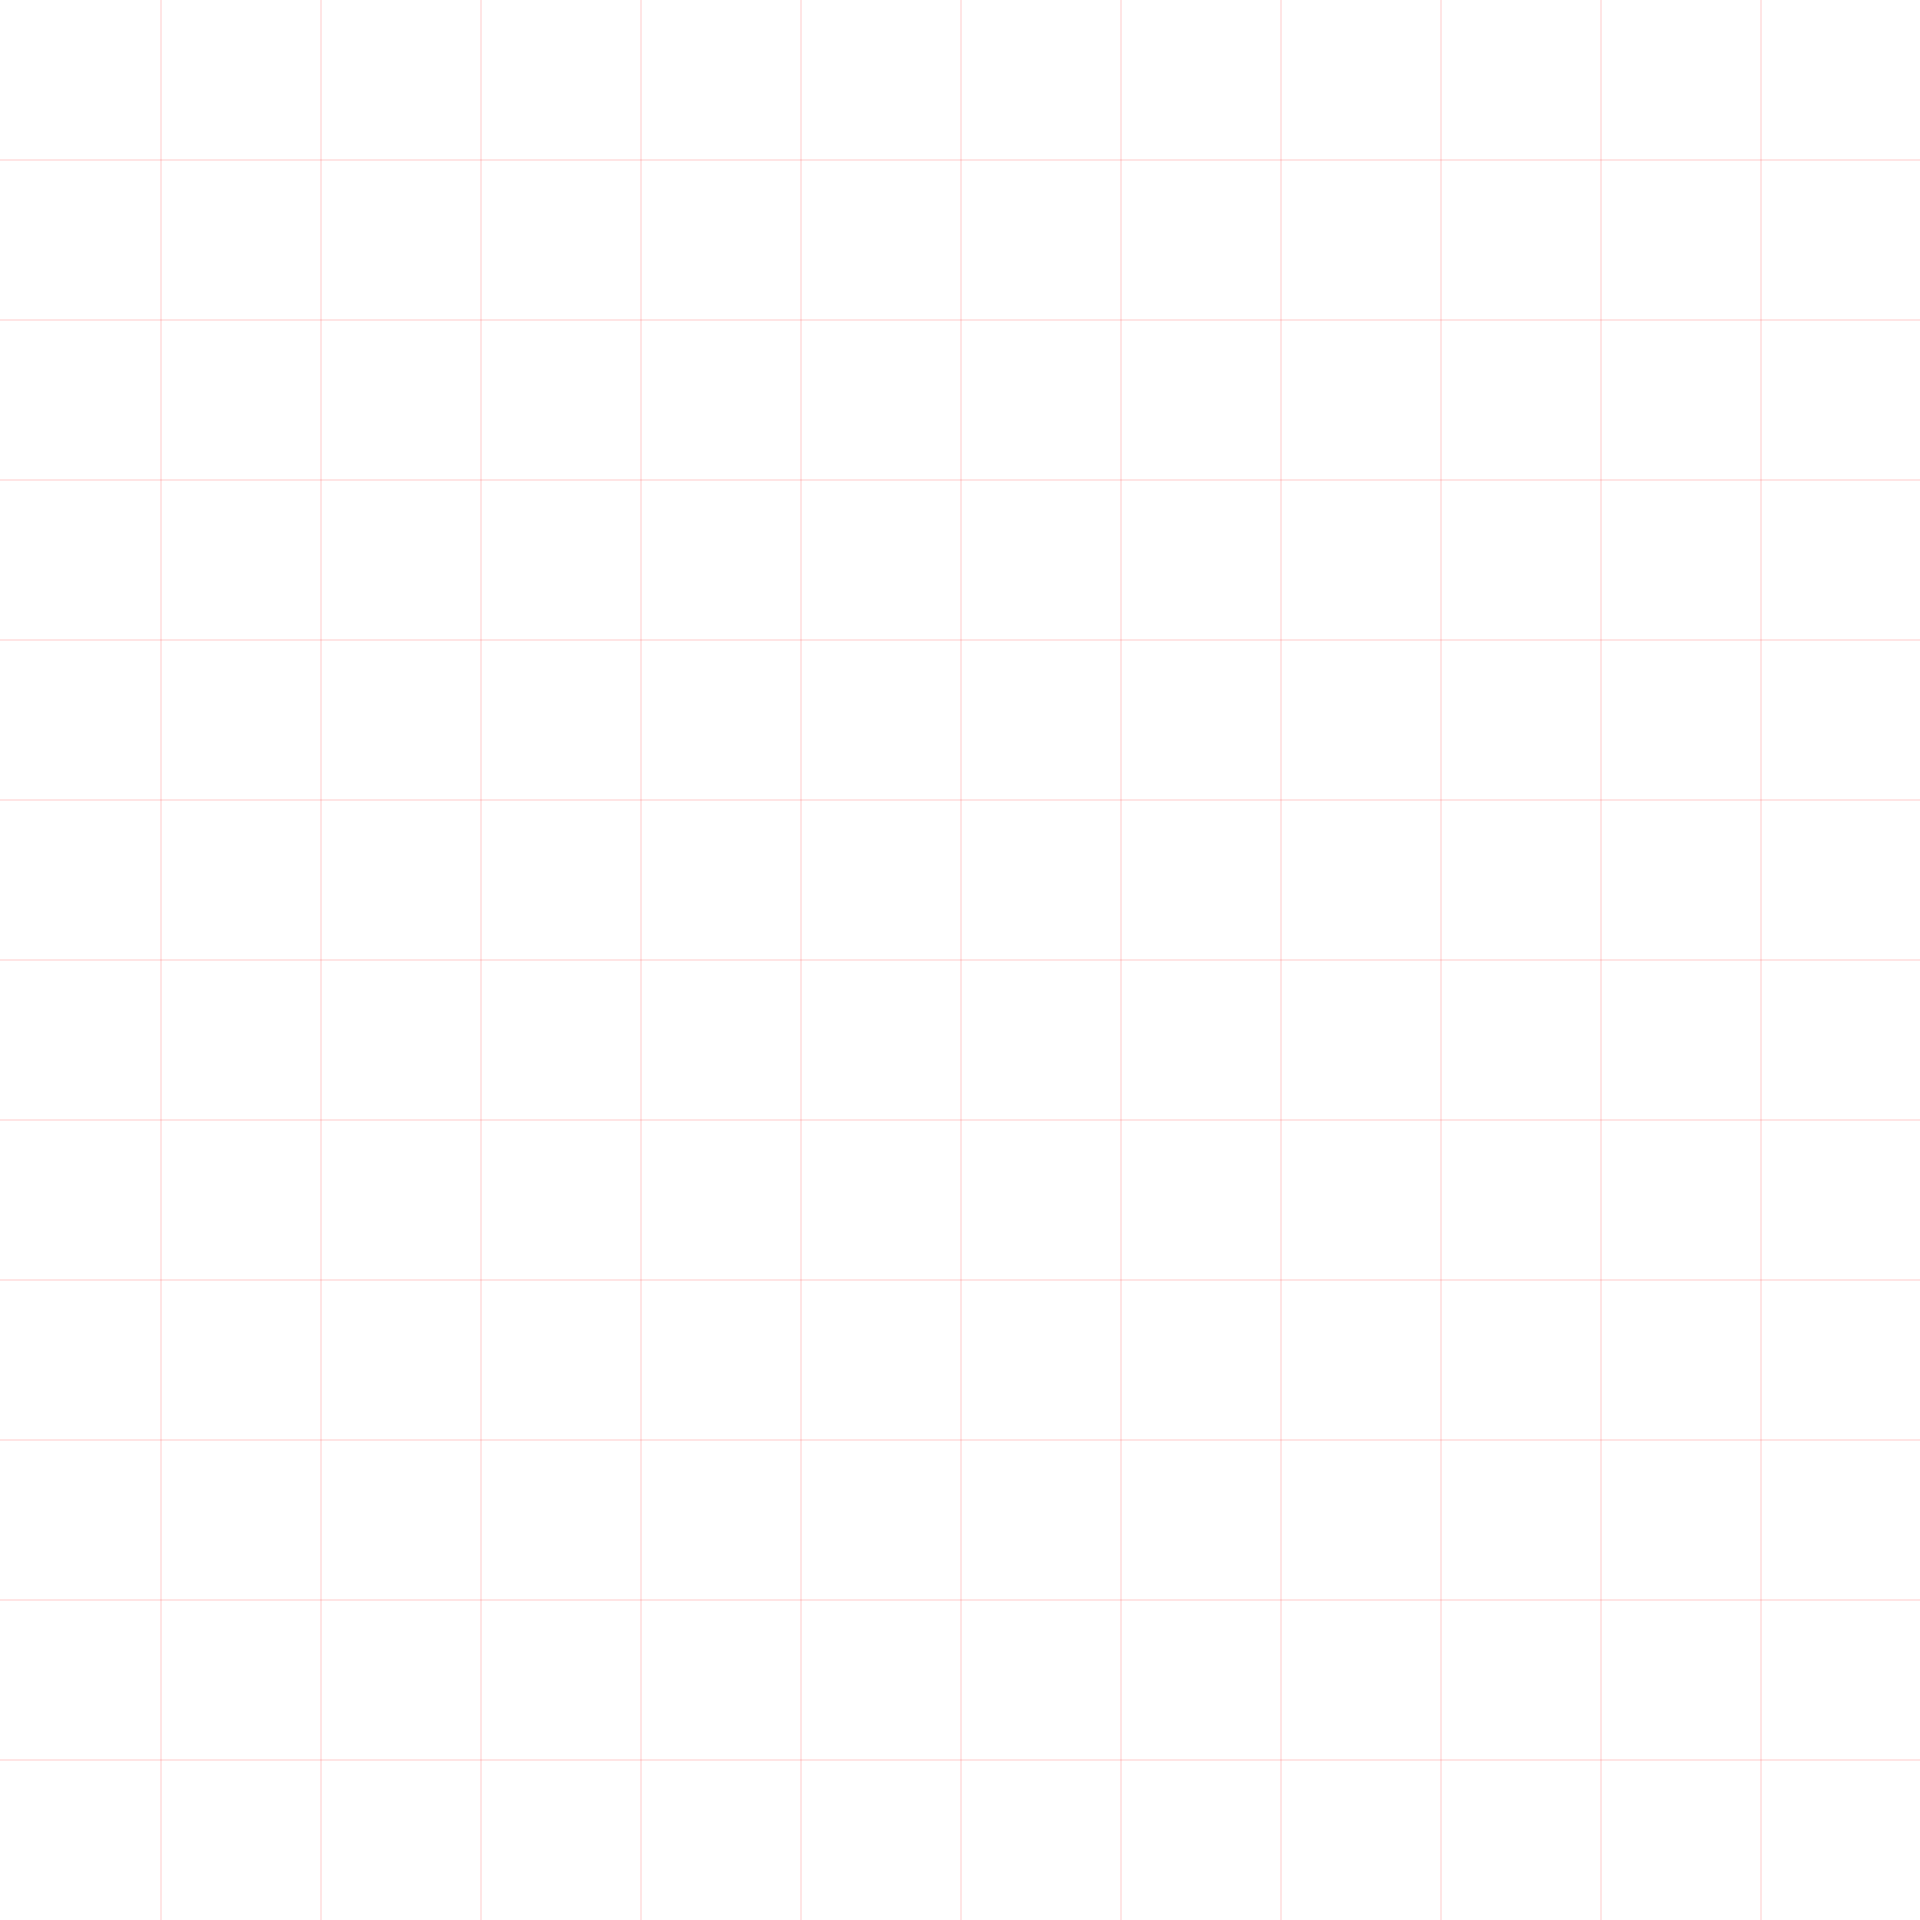
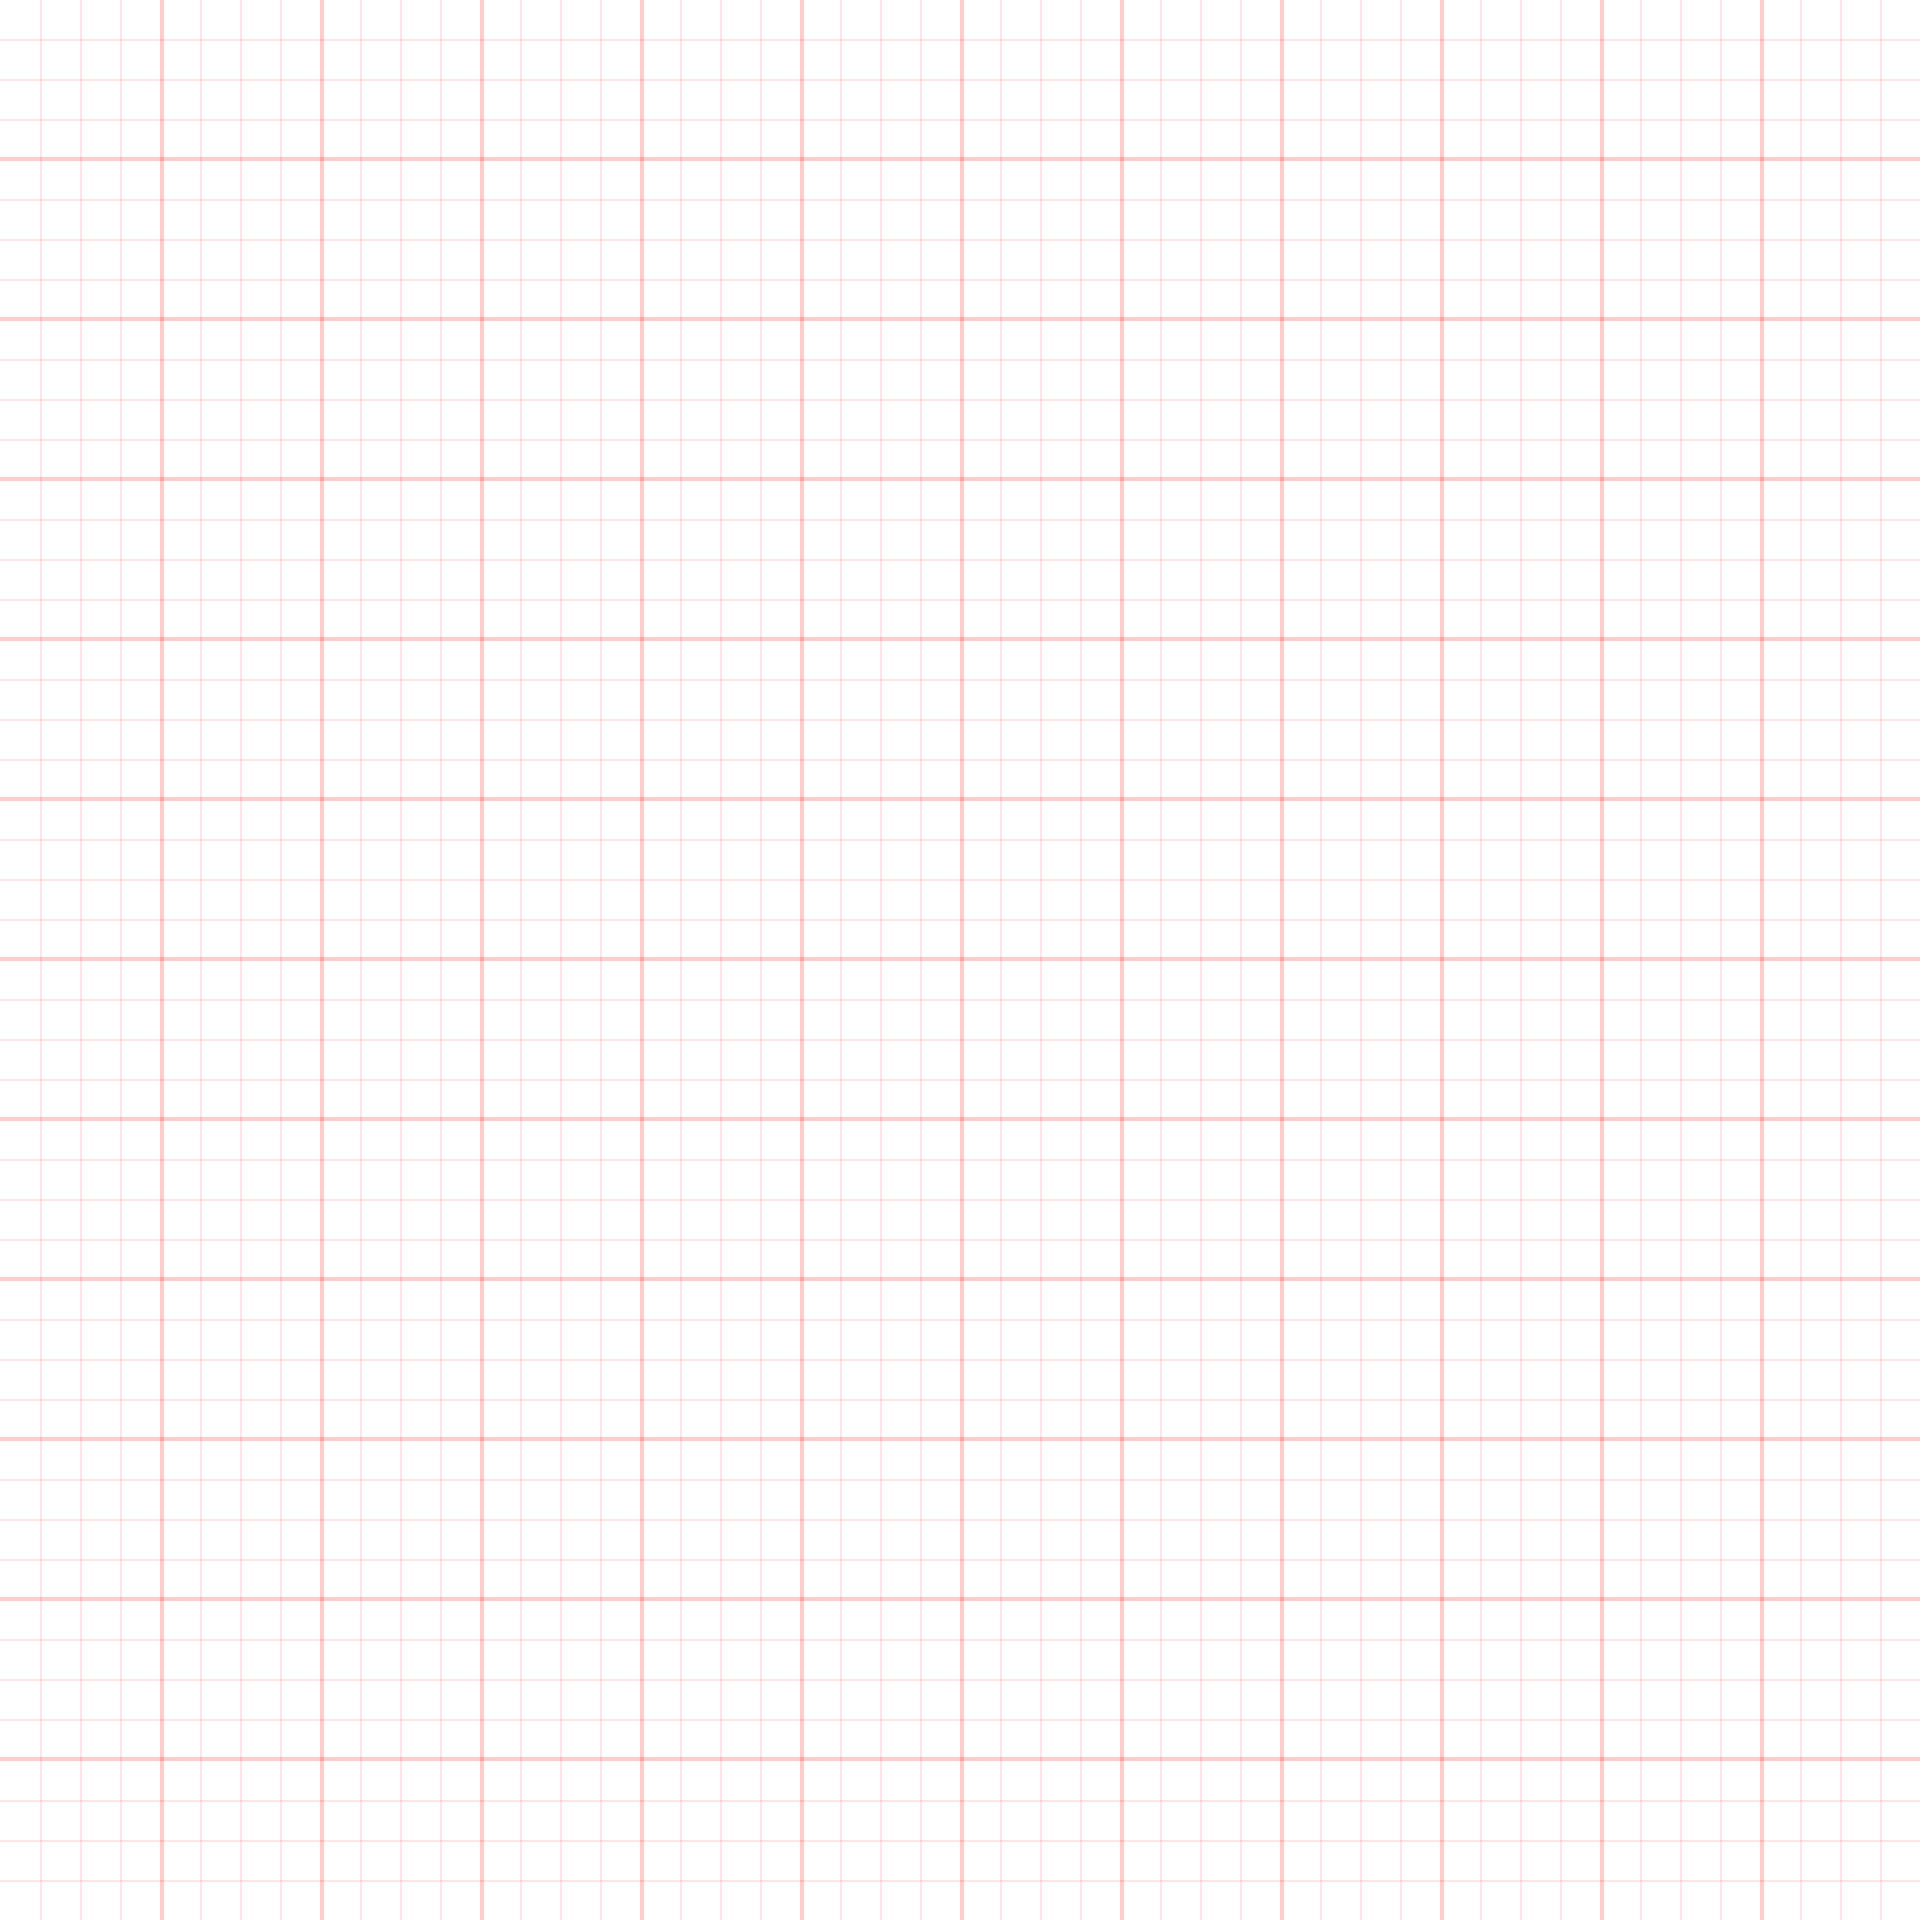
Update grid with more fidelity. Ensure sun sits on grid in either half, not in centre

diff --git a/building-composer/assets/javascripts/application.js b/building-composer/assets/javascripts/application.js
@@ -16,6 +16,7 @@ const TWO_PARAMS = {
   type: RENDERER_TYPE
 };
 const TWO = new Two(TWO_PARAMS).appendTo(COMPOSER);
+const DICE_ROLL = Math.round(getRandomNumberInRange(1, 6));
 
 // DRAWING VARIABLES
 let grid_columns = 12;
@@ -32,9 +33,18 @@ let pale_green = '#C2DCD7';
 let red = '#EE7E6F';
 let pink = '#F2AACD';
 
+
 // HELPERS
-function getRandomIntegerInRange(min, max) {
-  return Math.round(Math.random() * (max - min) + min);
+function getRandomNumberInRange(min, max) {
+  return Math.random() * (max - min) + min;
+}
+
+function roundNumberToDecimalQuarter(number) {
+  return (Math.round(number * 4) / 4).toFixed(2);
+}
+
+function roundNumberToInteger(number) {
+  return Math.round(number);
 }
 
 // DRAWING:
@@ -46,7 +56,13 @@ background.opacity = 0.1;
 background.noStroke();
 
 // Sun
-let sun_x = getRandomIntegerInRange(2, 10) * grid_block_width;
+let sun_x;
+
+if (DICE_ROLL <= 3) {
+  sun_x = roundNumberToInteger(getRandomNumberInRange(2, 4)) * grid_block_width;
+}else{
+  sun_x = roundNumberToInteger(getRandomNumberInRange(8, 10)) * grid_block_width;
+}
 let sun_y = grid_block_height * 2;
 let sun_radius = grid_block_width;
 let sun = TWO.makeCircle(sun_x, sun_y, sun_radius);
@@ -54,7 +70,7 @@ sun.fill = yellow;
 sun.linewidth = stroke_weight;
 
 // Green Building
-let flat_building_a_x = getRandomIntegerInRange(3, 9) * grid_block_width;
+let flat_building_a_x = roundNumberToDecimalQuarter(getRandomNumberInRange(3, 9)) * grid_block_width;
 let flat_building_a_y = grid_block_height * 8.25;
 let flat_building_a_width = grid_block_width * 4;
 let flat_building_a_height = grid_block_width * 5.5;
@@ -63,7 +79,7 @@ flat_building_a.fill = dark_green;
 flat_building_a.linewidth = stroke_weight;
 
 // Pale Green Building
-let lowrise_building_x = getRandomIntegerInRange(3.125, 9) * grid_block_width;
+let lowrise_building_x = roundNumberToDecimalQuarter(getRandomNumberInRange(3.125, 9)) * grid_block_width;
 let lowrise_building_y = grid_block_height * 9.75;
 let lowrise_building_width = grid_block_width * 4.5;
 let lowrise_building_height = grid_block_width * 2.5;
